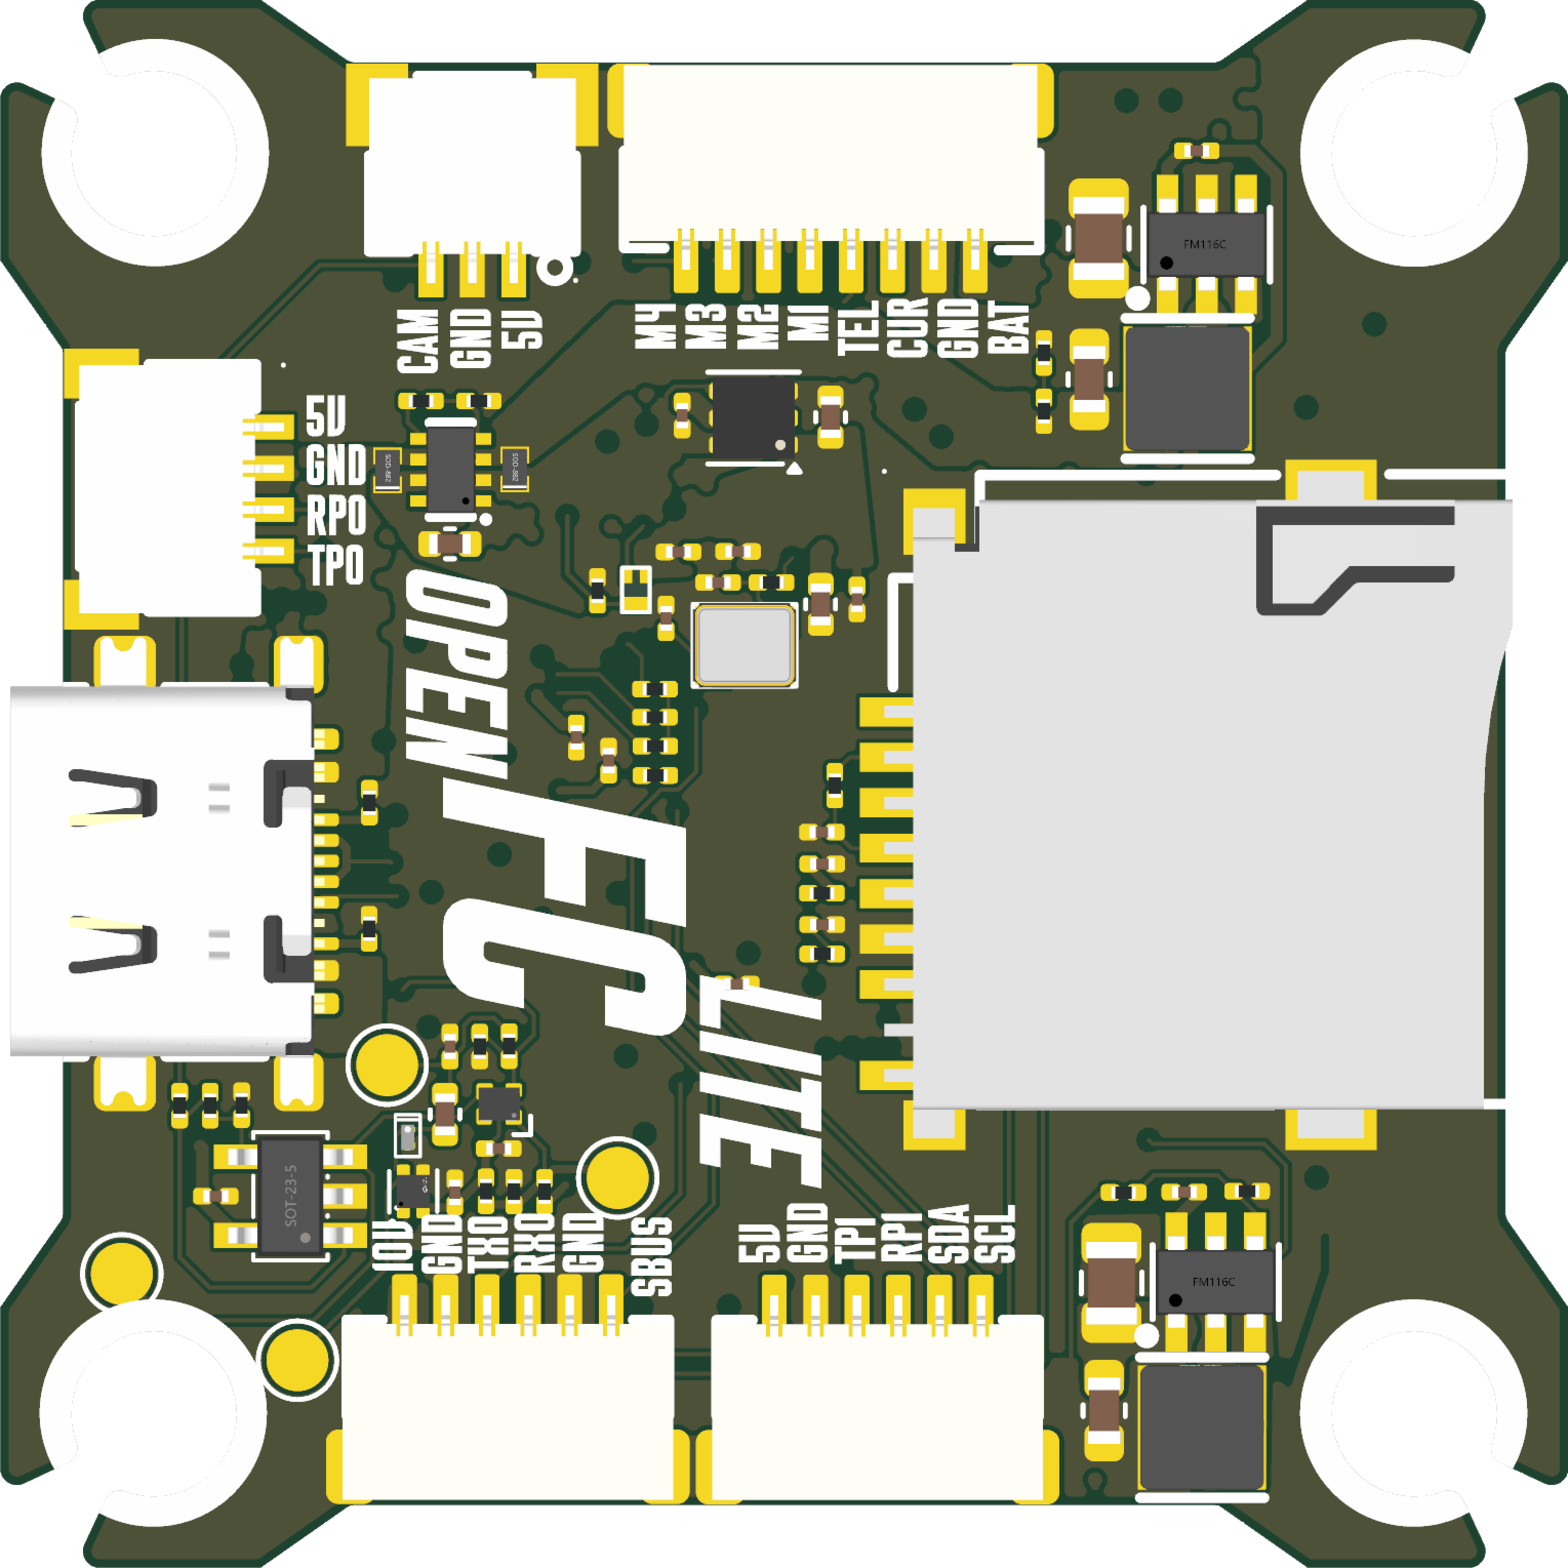
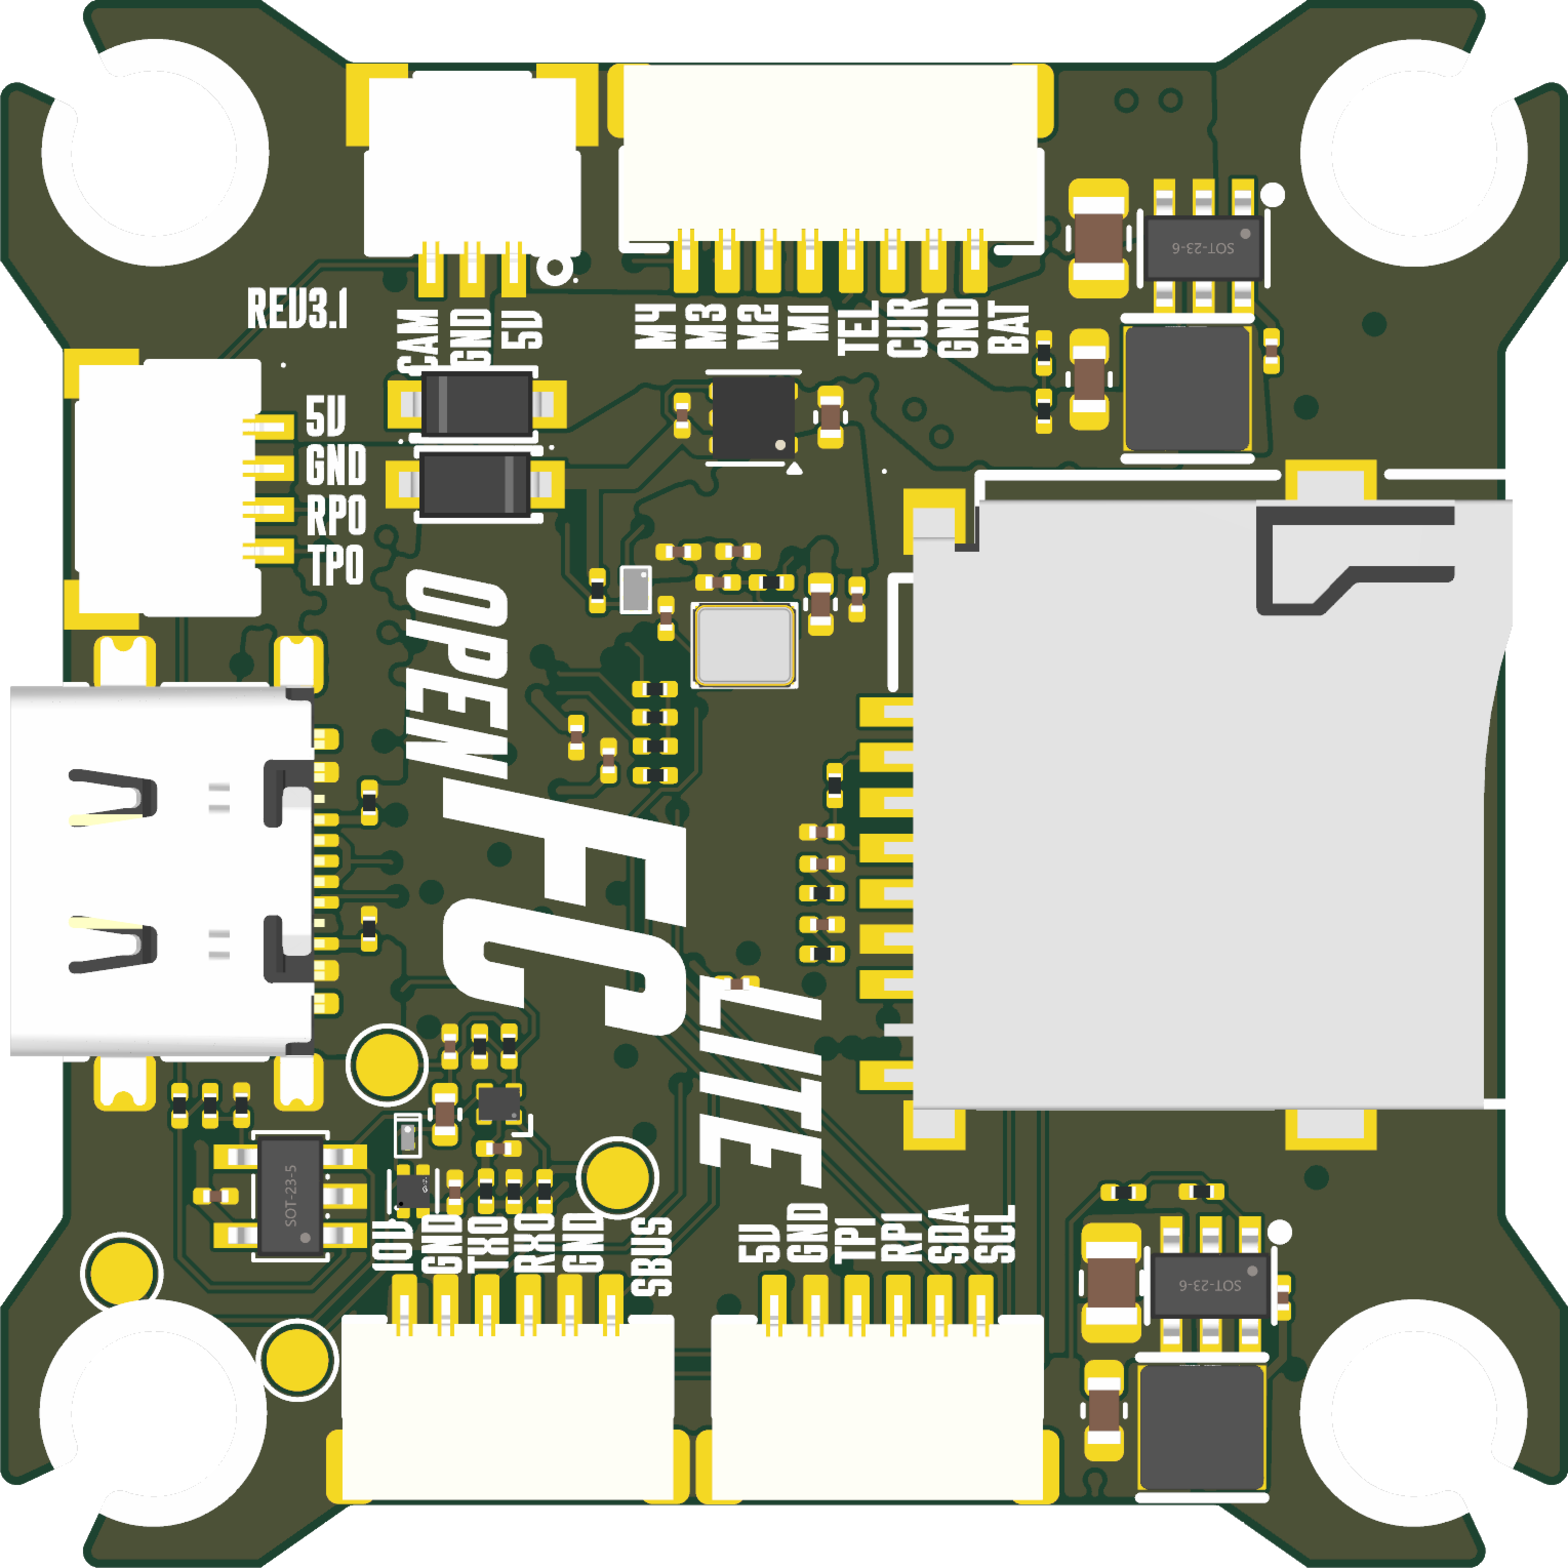
Rev 3.1 release prep: renders, 4V5 power tree, revisions
The committed board now matches the verified fab export exactly
(check_export.py C1-C3 clean). Renders regenerated from it.

diff --git a/AGENTS.md b/AGENTS.md
@@ -82,13 +82,16 @@ board this size.
 
 ```
 +BATT ─┬─► 10V buck (switchable, MCU-gated via 10V_ENABLE) ─► VTX and camera
-       └─► 5V buck (always on) ─┐
-                                ├─► +5V ─┬─► 3.3V LDO ─► MCU IO, IMU IO, microSD, OSD
-+5V_USB ────────────────────────┘        └─► 1.8V LDO ─► IMU analog
-                                              +3.3V ─► RP2354 internal switcher ─► +1.1V core
+       └─► 5V buck (always on) ─► +5V ─► external 5 V pads, D6 ─┐
+                                                               ├─► +4v5 ─┬─► 3.3V LDO ─► MCU IO, IMU IO, microSD, OSD
++5V_USB ─────────────────────────────────────────────► D10 ────┘         └─► 1.8V LDO ─► IMU analog
+                                                                              +3.3V ─► RP2354 internal switcher ─► +1.1V core
 ```
 
 The 10 V rail is gated by the MCU so a VTX can be switched off in firmware.
+D6 and D10 are a DSK24 diode-OR: battery and USB feed +4v5 with no pass
+element, and the external 5 V pads hang directly on the buck output, so USB
+never back-feeds them.
 
 ## Connectors and I/O
 
@@ -120,5 +123,7 @@ rail. Do not merge them to save a regulator.
 
 | Rev | Change |
 |---|---|
-| Rev2 | Current, flown. |
+| Rev3.1 | Current. 4V5 rework: TPS2116 mux replaced by DSK24 diode-OR into the +4v5 rail. All vias 0.35/0.2 mm, floors on the line standard. |
+| Rev3 | LDO/IMU swap, pad attribute fixes. |
+| Rev2 | Flown. |
 | Rev1 | First prototype, bench tested. |
